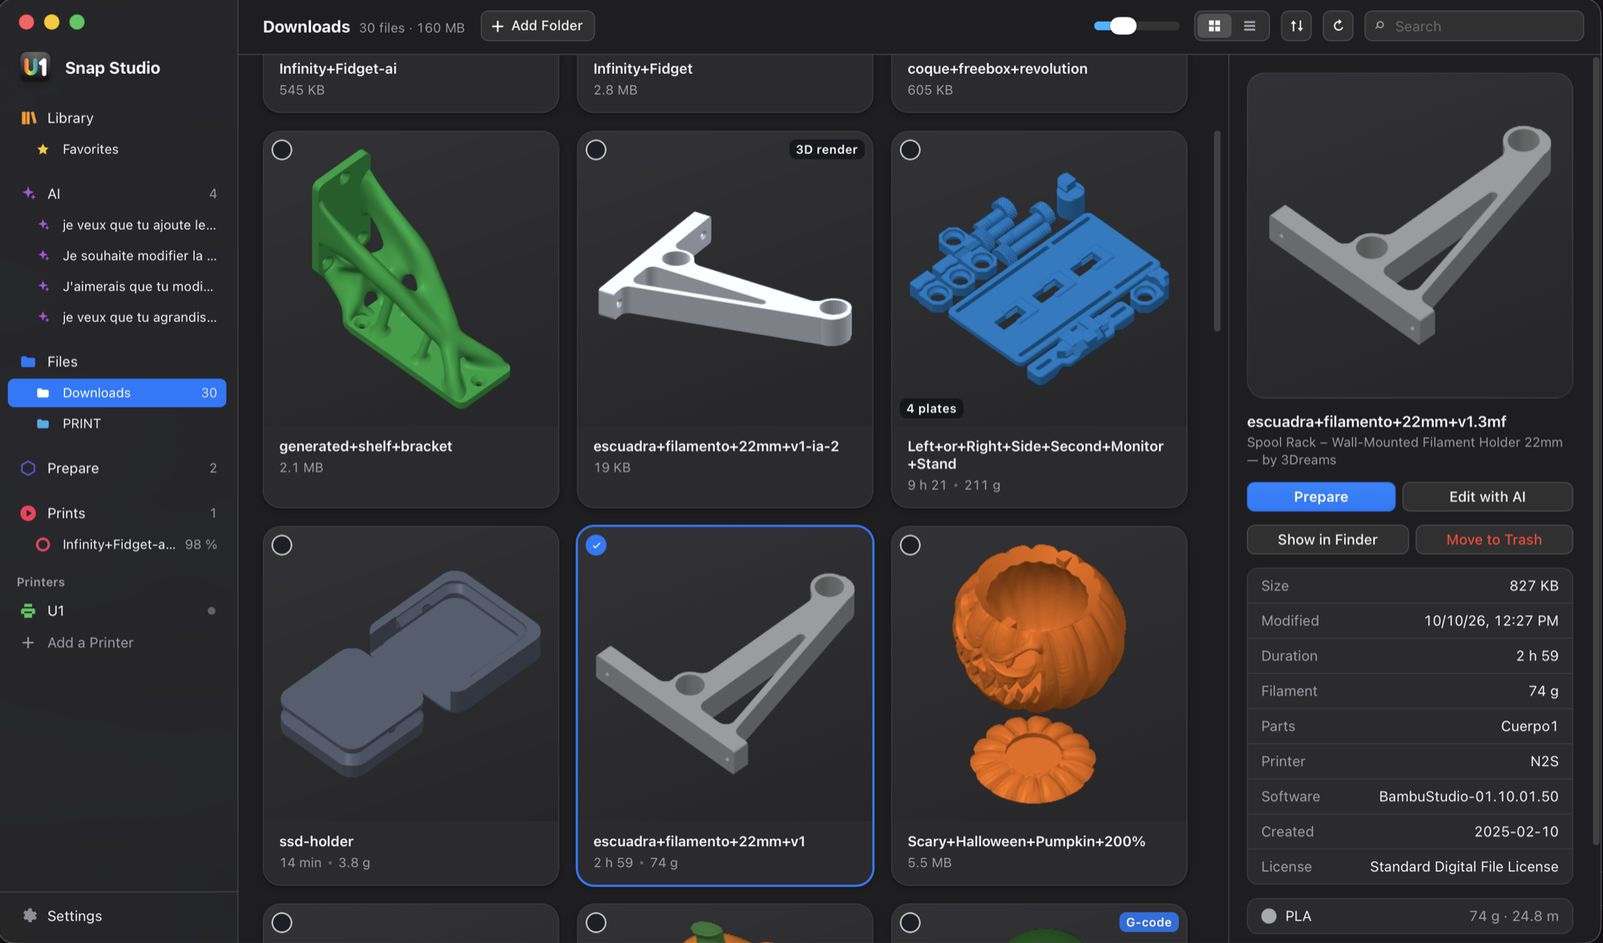
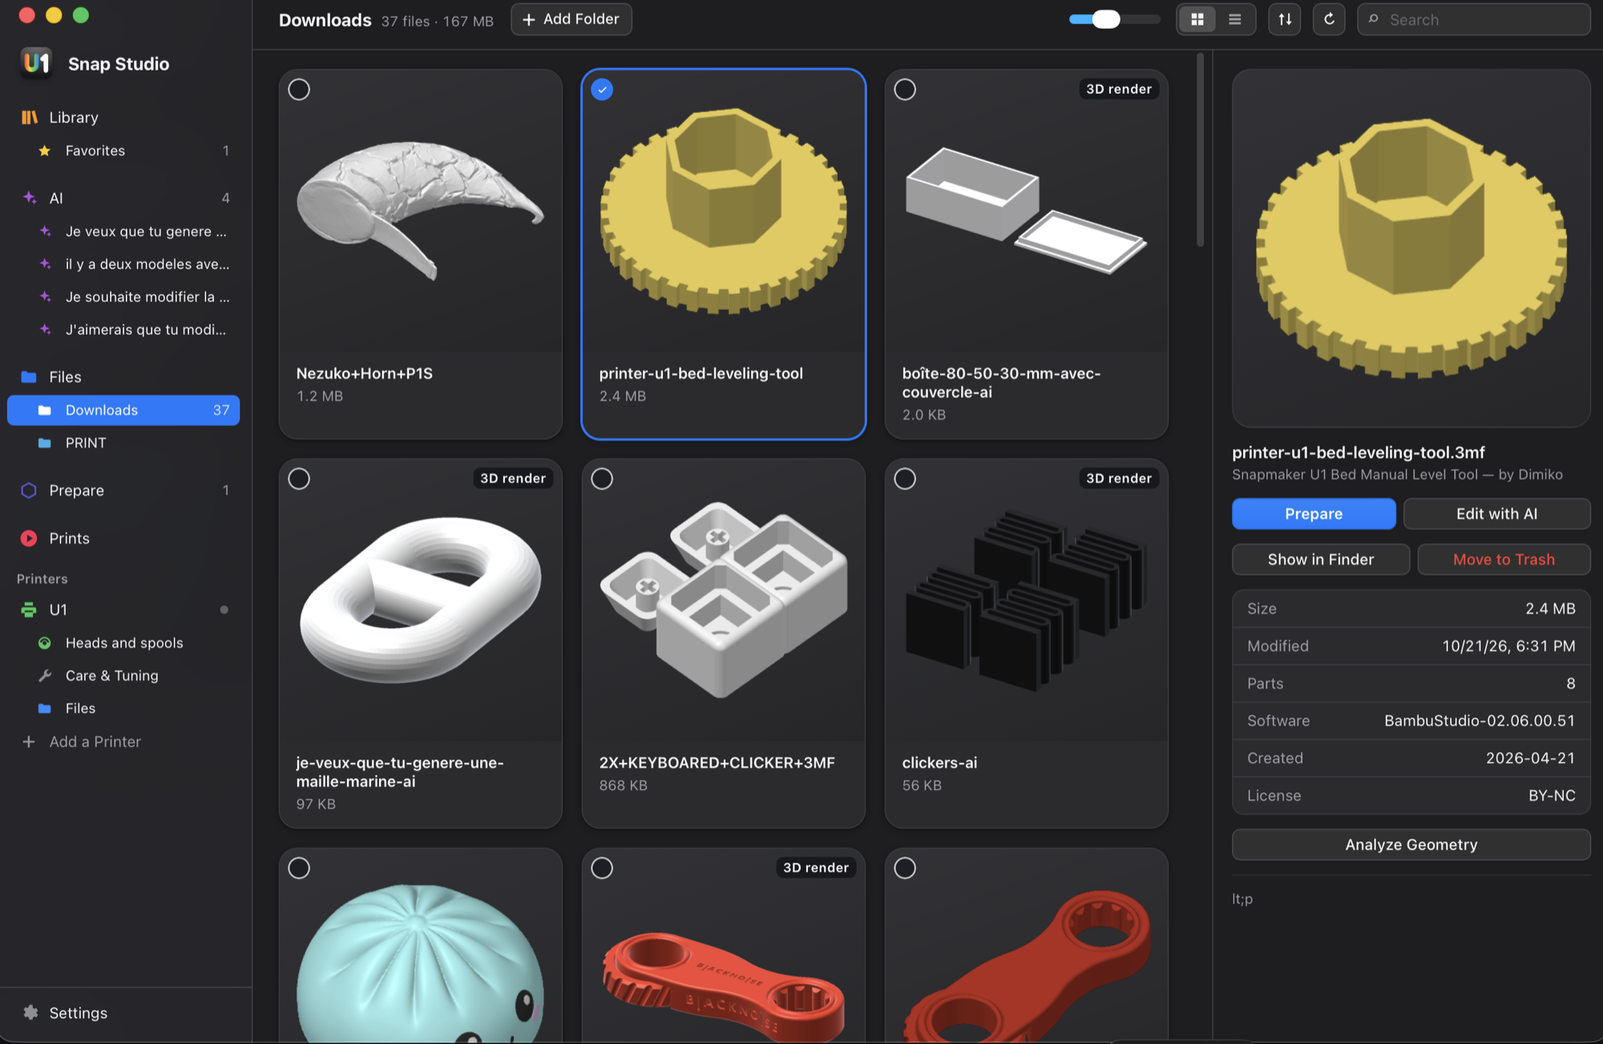
docs: new screenshots for the README and the site (#33)
- Replaced: Library, AI conversation, Files, Prepare (sliders, floating
  list) and Care & Tuning (was Maintenance).
- New: a printer's Files, and Settings › Display (themes), in their README
  sections (EN/FR) and as two more slides on the site (11 now).
- Site: WebP at 1400 px and 320 px thumbnails, image sizes and captions
  (EN/FR) updated; the Maintenance caption becomes Care & Tuning.
- The AI conversation's local paths are replaced by ~/.config/… (no user
  name in a public image).

diff --git a/site/index.html b/site/index.html
@@ -36,7 +36,7 @@
         <a class="btn ghost" href="https://github.com/kameka22/snap-studio" data-i18n="hero.source">View on GitHub</a>
       </div>
       <p id="hero-dl-note" class="note"></p>
-      <img class="hero-shot" src="assets/files.webp" alt="Snap Studio — your 3MF files at a glance" data-i18n-alt="shots.files_alt" width="1400" height="824">
+      <img class="hero-shot" src="assets/files.webp" alt="Snap Studio — your 3MF files at a glance" data-i18n-alt="shots.files_alt" width="1400" height="912">
     </section>
 
     <section id="features" class="features">
@@ -80,56 +80,68 @@
       <section class="gallery" id="gallery" aria-roledescription="carousel" data-i18n-roledesc="gal.role" aria-label="Snap Studio screenshots" data-i18n-aria="gal.label" tabindex="0">
         <div class="g-stage">
           <div class="g-track" aria-live="polite">
-          <figure class="g-slide is-active" role="group" aria-roledescription="slide" data-i18n-roledesc="gal.slide_role" aria-label="1 / 9" data-index="0">
+          <figure class="g-slide is-active" role="group" aria-roledescription="slide" data-i18n-roledesc="gal.slide_role" aria-label="1 / 11" data-index="0">
             <button type="button" class="g-open" data-open="0" aria-label="Open fullscreen: Files: thumbnails of your 3MF files, duration, filament and plates" data-cap="shots.files" tabindex="0">
-              <img src="assets/files.webp" alt="Snap Studio — your 3MF files at a glance" data-i18n-alt="shots.files_alt" width="1400" height="824">
+              <img src="assets/files.webp" alt="Snap Studio — your 3MF files at a glance" data-i18n-alt="shots.files_alt" width="1400" height="912">
             </button>
             <figcaption><span class="g-cap" data-i18n="shots.files">Files: thumbnails of your 3MF files, duration, filament and plates</span></figcaption>
           </figure>
-          <figure class="g-slide" role="group" aria-roledescription="slide" data-i18n-roledesc="gal.slide_role" aria-label="2 / 9" data-index="1" aria-hidden="true">
-            <button type="button" class="g-open" data-open="1" aria-label="Open fullscreen: Prepare: the U1 plate in 3D, as in Orca" data-cap="shots.prepare" tabindex="-1">
-              <img src="assets/prepare.webp" alt="Prepare" data-i18n-alt="shots.prepare_alt" width="1400" height="824">
+          <figure class="g-slide" role="group" aria-roledescription="slide" data-i18n-roledesc="gal.slide_role" aria-label="2 / 11" data-index="1" aria-hidden="true">
+            <button type="button" class="g-open" data-open="1" aria-label="Open fullscreen: Prepare: the U1 plate in 3D, with sliders and objects set aside" data-cap="shots.prepare" tabindex="-1">
+              <img src="assets/prepare.webp" alt="Prepare" data-i18n-alt="shots.prepare_alt" width="1400" height="912">
             </button>
-            <figcaption><span class="g-cap" data-i18n="shots.prepare">Prepare: the U1 plate in 3D, as in Orca</span></figcaption>
+            <figcaption><span class="g-cap" data-i18n="shots.prepare">Prepare: the U1 plate in 3D, with sliders and objects set aside</span></figcaption>
           </figure>
-          <figure class="g-slide" role="group" aria-roledescription="slide" data-i18n-roledesc="gal.slide_role" aria-label="3 / 9" data-index="2" aria-hidden="true">
+          <figure class="g-slide" role="group" aria-roledescription="slide" data-i18n-roledesc="gal.slide_role" aria-label="3 / 11" data-index="2" aria-hidden="true">
             <button type="button" class="g-open" data-open="2" aria-label="Open fullscreen: AI: Claude models a part, with a live 3D preview" data-cap="shots.ai-chat" tabindex="-1">
-              <img src="assets/ai-chat.webp" alt="An AI conversation" data-i18n-alt="shots.ai-chat_alt" width="1400" height="824" loading="lazy">
+              <img src="assets/ai-chat.webp" alt="An AI conversation" data-i18n-alt="shots.ai-chat_alt" width="1400" height="912" loading="lazy">
             </button>
             <figcaption><span class="g-cap" data-i18n="shots.ai-chat">AI: Claude models a part, with a live 3D preview</span></figcaption>
           </figure>
-          <figure class="g-slide" role="group" aria-roledescription="slide" data-i18n-roledesc="gal.slide_role" aria-label="4 / 9" data-index="3" aria-hidden="true">
+          <figure class="g-slide" role="group" aria-roledescription="slide" data-i18n-roledesc="gal.slide_role" aria-label="4 / 11" data-index="3" aria-hidden="true">
             <button type="button" class="g-open" data-open="3" aria-label="Open fullscreen: Printers: live state and the spools in each head" data-cap="shots.printer" tabindex="-1">
               <img src="assets/printer.webp" alt="Printer and its spools" data-i18n-alt="shots.printer_alt" width="1400" height="824" loading="lazy">
             </button>
             <figcaption><span class="g-cap" data-i18n="shots.printer">Printers: live state and the spools in each head</span></figcaption>
           </figure>
-          <figure class="g-slide" role="group" aria-roledescription="slide" data-i18n-roledesc="gal.slide_role" aria-label="5 / 9" data-index="4" aria-hidden="true">
-            <button type="button" class="g-open" data-open="4" aria-label="Open fullscreen: Camera: the printer's camera, live" data-cap="shots.printer-camera" tabindex="-1">
-              <img src="assets/printer-camera.webp" alt="The printer's camera" data-i18n-alt="shots.printer-camera_alt" width="1400" height="824" loading="lazy">
+          <figure class="g-slide" role="group" aria-roledescription="slide" data-i18n-roledesc="gal.slide_role" aria-label="5 / 11" data-index="4" aria-hidden="true">
+            <button type="button" class="g-open" data-open="4" aria-label="Open fullscreen: Camera: the printer&#x27;s camera, live" data-cap="shots.printer-camera" tabindex="-1">
+              <img src="assets/printer-camera.webp" alt="The printer&#x27;s camera" data-i18n-alt="shots.printer-camera_alt" width="1400" height="824" loading="lazy">
             </button>
-            <figcaption><span class="g-cap" data-i18n="shots.printer-camera">Camera: the printer's camera, live</span></figcaption>
+            <figcaption><span class="g-cap" data-i18n="shots.printer-camera">Camera: the printer&#x27;s camera, live</span></figcaption>
           </figure>
-          <figure class="g-slide" role="group" aria-roledescription="slide" data-i18n-roledesc="gal.slide_role" aria-label="6 / 9" data-index="5" aria-hidden="true">
+          <figure class="g-slide" role="group" aria-roledescription="slide" data-i18n-roledesc="gal.slide_role" aria-label="6 / 11" data-index="5" aria-hidden="true">
             <button type="button" class="g-open" data-open="5" aria-label="Open fullscreen: Prints: progress, temperatures, pause and cancel" data-cap="shots.print-job" tabindex="-1">
               <img src="assets/print-job.webp" alt="A print in progress" data-i18n-alt="shots.print-job_alt" width="1400" height="824" loading="lazy">
             </button>
             <figcaption><span class="g-cap" data-i18n="shots.print-job">Prints: progress, temperatures, pause and cancel</span></figcaption>
           </figure>
-          <figure class="g-slide" role="group" aria-roledescription="slide" data-i18n-roledesc="gal.slide_role" aria-label="7 / 9" data-index="6" aria-hidden="true">
-            <button type="button" class="g-open" data-open="6" aria-label="Open fullscreen: Library: MakerWorld, Printables, Thingiverse and Cults3D in tabs" data-cap="shots.library" tabindex="-1">
-              <img src="assets/library.webp" alt="Library" data-i18n-alt="shots.library_alt" width="1400" height="824" loading="lazy">
+          <figure class="g-slide" role="group" aria-roledescription="slide" data-i18n-roledesc="gal.slide_role" aria-label="7 / 11" data-index="6" aria-hidden="true">
+            <button type="button" class="g-open" data-open="6" aria-label="Open fullscreen: A printer&#x27;s files: print files and timelapses, read live" data-cap="shots.printer-files" tabindex="-1">
+              <img src="assets/printer-files.webp" alt="A printer&#x27;s files" data-i18n-alt="shots.printer-files_alt" width="1400" height="912" loading="lazy">
+            </button>
+            <figcaption><span class="g-cap" data-i18n="shots.printer-files">A printer&#x27;s files: print files and timelapses, read live</span></figcaption>
+          </figure>
+          <figure class="g-slide" role="group" aria-roledescription="slide" data-i18n-roledesc="gal.slide_role" aria-label="8 / 11" data-index="7" aria-hidden="true">
+            <button type="button" class="g-open" data-open="7" aria-label="Open fullscreen: Library: MakerWorld, Printables, Thingiverse and Cults3D in tabs" data-cap="shots.library" tabindex="-1">
+              <img src="assets/library.webp" alt="Library" data-i18n-alt="shots.library_alt" width="1400" height="912" loading="lazy">
             </button>
             <figcaption><span class="g-cap" data-i18n="shots.library">Library: MakerWorld, Printables, Thingiverse and Cults3D in tabs</span></figcaption>
           </figure>
-          <figure class="g-slide" role="group" aria-roledescription="slide" data-i18n-roledesc="gal.slide_role" aria-label="8 / 9" data-index="7" aria-hidden="true">
-            <button type="button" class="g-open" data-open="7" aria-label="Open fullscreen: Maintenance: usage, heads and tasks sorted by urgency" data-cap="shots.maintenance" tabindex="-1">
-              <img src="assets/maintenance.webp" alt="The maintenance view" data-i18n-alt="shots.maintenance_alt" width="1400" height="913" loading="lazy">
+          <figure class="g-slide" role="group" aria-roledescription="slide" data-i18n-roledesc="gal.slide_role" aria-label="9 / 11" data-index="8" aria-hidden="true">
+            <button type="button" class="g-open" data-open="8" aria-label="Open fullscreen: Care &amp; Tuning: maintenance tasks, the heads&#x27; counters, the bed&#x27;s leveling" data-cap="shots.maintenance" tabindex="-1">
+              <img src="assets/maintenance.webp" alt="Care &amp; Tuning" data-i18n-alt="shots.maintenance_alt" width="1400" height="912" loading="lazy">
             </button>
-            <figcaption><span class="g-cap" data-i18n="shots.maintenance">Maintenance: usage, heads and tasks sorted by urgency</span></figcaption>
+            <figcaption><span class="g-cap" data-i18n="shots.maintenance">Care &amp; Tuning: maintenance tasks, the heads&#x27; counters, the bed&#x27;s leveling</span></figcaption>
           </figure>
-          <figure class="g-slide" role="group" aria-roledescription="slide" data-i18n-roledesc="gal.slide_role" aria-label="9 / 9" data-index="8" aria-hidden="true">
-            <button type="button" class="g-open" data-open="8" aria-label="Open fullscreen: Slicing: plate, quality, heads and spools read from the printer" data-cap="shots.slicing" tabindex="-1">
+          <figure class="g-slide" role="group" aria-roledescription="slide" data-i18n-roledesc="gal.slide_role" aria-label="10 / 11" data-index="9" aria-hidden="true">
+            <button type="button" class="g-open" data-open="9" aria-label="Open fullscreen: Display: light or dark, ten themes and the accent color" data-cap="shots.display" tabindex="-1">
+              <img src="assets/display.webp" alt="Settings › Display" data-i18n-alt="shots.display_alt" width="1400" height="912" loading="lazy">
+            </button>
+            <figcaption><span class="g-cap" data-i18n="shots.display">Display: light or dark, ten themes and the accent color</span></figcaption>
+          </figure>
+          <figure class="g-slide" role="group" aria-roledescription="slide" data-i18n-roledesc="gal.slide_role" aria-label="11 / 11" data-index="10" aria-hidden="true">
+            <button type="button" class="g-open" data-open="10" aria-label="Open fullscreen: Slicing: plate, quality, heads and spools read from the printer" data-cap="shots.slicing" tabindex="-1">
               <img src="assets/slicing.webp" alt="The slice sheet" data-i18n-alt="shots.slicing_alt" width="1200" height="1105" loading="lazy">
             </button>
             <figcaption><span class="g-cap" data-i18n="shots.slicing">Slicing: plate, quality, heads and spools read from the printer</span></figcaption>
@@ -139,19 +151,21 @@
           <button type="button" class="g-nav g-next" aria-label="Next screenshot" data-i18n-aria="gal.next"><svg viewBox="0 0 24 24" aria-hidden="true" focusable="false"><path d="M9 5l7 7-7 7"/></svg></button>
         </div>
         <div class="g-bar">
-          <span class="g-count" aria-hidden="true"><b id="g-cur">1</b> / 9</span>
+          <span class="g-count" aria-hidden="true"><b id="g-cur">1</b> / 11</span>
           <button type="button" class="g-play" id="g-play" aria-pressed="false" aria-label="Pause the slideshow" data-i18n-aria="gal.pause"><svg class="i-pause" viewBox="0 0 24 24" aria-hidden="true" focusable="false"><path d="M8 5v14M16 5v14"/></svg><svg class="i-play" viewBox="0 0 24 24" aria-hidden="true" focusable="false"><path d="M8 5l11 7-11 7z"/></svg></button>
         </div>
         <div class="g-thumbs" id="g-thumbs">
-        <button type="button" class="g-thumb is-active" data-go="0" aria-label="Files: thumbnails of your 3MF files, duration, filament and plates" data-cap="shots.files" aria-current="true"><img src="assets/thumbs/files.webp" alt="" width="160" height="94" loading="lazy"></button>
-        <button type="button" class="g-thumb" data-go="1" aria-label="Prepare: the U1 plate in 3D, as in Orca" data-cap="shots.prepare"><img src="assets/thumbs/prepare.webp" alt="" width="160" height="94" loading="lazy"></button>
-        <button type="button" class="g-thumb" data-go="2" aria-label="AI: Claude models a part, with a live 3D preview" data-cap="shots.ai-chat"><img src="assets/thumbs/ai-chat.webp" alt="" width="160" height="94" loading="lazy"></button>
+        <button type="button" class="g-thumb is-active" data-go="0" aria-label="Files: thumbnails of your 3MF files, duration, filament and plates" data-cap="shots.files" aria-current="true"><img src="assets/thumbs/files.webp" alt="" width="160" height="104" loading="lazy"></button>
+        <button type="button" class="g-thumb" data-go="1" aria-label="Prepare: the U1 plate in 3D, with sliders and objects set aside" data-cap="shots.prepare"><img src="assets/thumbs/prepare.webp" alt="" width="160" height="104" loading="lazy"></button>
+        <button type="button" class="g-thumb" data-go="2" aria-label="AI: Claude models a part, with a live 3D preview" data-cap="shots.ai-chat"><img src="assets/thumbs/ai-chat.webp" alt="" width="160" height="104" loading="lazy"></button>
         <button type="button" class="g-thumb" data-go="3" aria-label="Printers: live state and the spools in each head" data-cap="shots.printer"><img src="assets/thumbs/printer.webp" alt="" width="160" height="94" loading="lazy"></button>
-        <button type="button" class="g-thumb" data-go="4" aria-label="Camera: the printer's camera, live" data-cap="shots.printer-camera"><img src="assets/thumbs/printer-camera.webp" alt="" width="160" height="94" loading="lazy"></button>
+        <button type="button" class="g-thumb" data-go="4" aria-label="Camera: the printer&#x27;s camera, live" data-cap="shots.printer-camera"><img src="assets/thumbs/printer-camera.webp" alt="" width="160" height="94" loading="lazy"></button>
         <button type="button" class="g-thumb" data-go="5" aria-label="Prints: progress, temperatures, pause and cancel" data-cap="shots.print-job"><img src="assets/thumbs/print-job.webp" alt="" width="160" height="94" loading="lazy"></button>
-        <button type="button" class="g-thumb" data-go="6" aria-label="Library: MakerWorld, Printables, Thingiverse and Cults3D in tabs" data-cap="shots.library"><img src="assets/thumbs/library.webp" alt="" width="160" height="94" loading="lazy"></button>
-        <button type="button" class="g-thumb" data-go="7" aria-label="Maintenance: usage, heads and tasks sorted by urgency" data-cap="shots.maintenance"><img src="assets/thumbs/maintenance.webp" alt="" width="160" height="94" loading="lazy"></button>
-        <button type="button" class="g-thumb" data-go="8" aria-label="Slicing: plate, quality, heads and spools read from the printer" data-cap="shots.slicing"><img src="assets/thumbs/slicing.webp" alt="" width="160" height="94" loading="lazy"></button>
+        <button type="button" class="g-thumb" data-go="6" aria-label="A printer&#x27;s files: print files and timelapses, read live" data-cap="shots.printer-files"><img src="assets/thumbs/printer-files.webp" alt="" width="160" height="104" loading="lazy"></button>
+        <button type="button" class="g-thumb" data-go="7" aria-label="Library: MakerWorld, Printables, Thingiverse and Cults3D in tabs" data-cap="shots.library"><img src="assets/thumbs/library.webp" alt="" width="160" height="104" loading="lazy"></button>
+        <button type="button" class="g-thumb" data-go="8" aria-label="Care &amp; Tuning: maintenance tasks, the heads&#x27; counters, the bed&#x27;s leveling" data-cap="shots.maintenance"><img src="assets/thumbs/maintenance.webp" alt="" width="160" height="104" loading="lazy"></button>
+        <button type="button" class="g-thumb" data-go="9" aria-label="Display: light or dark, ten themes and the accent color" data-cap="shots.display"><img src="assets/thumbs/display.webp" alt="" width="160" height="104" loading="lazy"></button>
+        <button type="button" class="g-thumb" data-go="10" aria-label="Slicing: plate, quality, heads and spools read from the printer" data-cap="shots.slicing"><img src="assets/thumbs/slicing.webp" alt="" width="160" height="94" loading="lazy"></button>
           <span class="g-ind" aria-hidden="true"></span>
         </div>
       </section>

diff --git a/site/i18n.js b/site/i18n.js
@@ -38,7 +38,7 @@ const STRINGS = {
     "gal.close": "Close",
     "shots.files": "Files: thumbnails of your 3MF files, duration, filament and plates",
     "shots.files_alt": "Snap Studio — your 3MF files at a glance",
-    "shots.prepare": "Prepare: the U1 plate in 3D, as in Orca",
+    "shots.prepare": "Prepare: the U1 plate in 3D, with sliders and objects set aside",
     "shots.prepare_alt": "Prepare",
     "shots.ai-chat": "AI: Claude models a part, with a live 3D preview",
     "shots.ai-chat_alt": "An AI conversation",
@@ -50,10 +50,14 @@ const STRINGS = {
     "shots.print-job_alt": "A print in progress",
     "shots.library": "Library: MakerWorld, Printables, Thingiverse and Cults3D in tabs",
     "shots.library_alt": "Library",
-    "shots.maintenance": "Maintenance: usage, heads and tasks sorted by urgency",
-    "shots.maintenance_alt": "The maintenance view",
+    "shots.maintenance": "Care & Tuning: maintenance tasks, the heads' counters, the bed's leveling",
+    "shots.maintenance_alt": "Care & Tuning",
     "shots.slicing": "Slicing: plate, quality, heads and spools read from the printer",
     "shots.slicing_alt": "The slice sheet",
+    "shots.printer-files": "A printer's files: print files and timelapses, read live",
+    "shots.printer-files_alt": "A printer's files",
+    "shots.display": "Display: light or dark, ten themes and the accent color",
+    "shots.display_alt": "Settings › Display",
     "dl.title": "Download",
     "dl.button": "Download",
     "dl.button_os": "Download for {os}",
@@ -115,7 +119,7 @@ const STRINGS = {
     "gal.close": "Fermer",
     "shots.files": "Fichiers : miniatures de vos 3MF, durée, filament et plateaux",
     "shots.files_alt": "Snap Studio — vos fichiers 3MF en un coup d'œil",
-    "shots.prepare": "Préparer : le plateau de la U1 en 3D, comme dans Orca",
+    "shots.prepare": "Préparer : le plateau de la U1 en 3D, avec curseurs et objets mis de côté",
     "shots.prepare_alt": "Préparer",
     "shots.ai-chat": "IA : Claude modélise une pièce, avec un aperçu 3D en direct",
     "shots.ai-chat_alt": "Une conversation IA",
@@ -127,10 +131,14 @@ const STRINGS = {
     "shots.print-job_alt": "Une impression en cours",
     "shots.library": "Bibliothèque : MakerWorld, Printables, Thingiverse et Cults3D en onglets",
     "shots.library_alt": "Bibliothèque",
-    "shots.maintenance": "Maintenance : usage, têtes et tâches triées par urgence",
-    "shots.maintenance_alt": "La vue maintenance",
+    "shots.maintenance": "Entretien et réglages : entretiens, compteurs des têtes, nivellement du plateau",
+    "shots.maintenance_alt": "Entretien et réglages",
     "shots.slicing": "Découpe : plateau, qualité, têtes et bobines lues sur l'imprimante",
     "shots.slicing_alt": "La fenêtre de découpe",
+    "shots.printer-files": "Fichiers de l'imprimante : fichiers d'impression et timelapses, lus en direct",
+    "shots.printer-files_alt": "Les fichiers d'une imprimante",
+    "shots.display": "Affichage : clair ou sombre, dix thèmes et la couleur d'accent",
+    "shots.display_alt": "Réglages › Affichage",
     "dl.title": "Télécharger",
     "dl.button": "Télécharger",
     "dl.button_os": "Télécharger pour {os}",

diff --git a/README.fr.md b/README.fr.md
@@ -139,7 +139,7 @@ Les contacts suivent le chiffre de Snapmaker ; les autres intervalles sont
 des valeurs prudentes, Snapmaker n'en donne pas. Sur une autre imprimante
 Klipper, la vue garde l'utilisation et les entretiens à l'heure.
 
-<img src="docs/screenshots/maintenance.png" alt="La vue maintenance" />
+<img src="docs/screenshots/maintenance.png" alt="Entretien et réglages : entretiens et compteurs des têtes" />
 
 **Nivellement** : le maillage du plateau, lu sur l'imprimante, gardé dans
 le temps.
@@ -182,6 +182,8 @@ Sous chaque imprimante, **Fichiers** montre ce qui y est stocké, lu en direct :
   téléphone sur le même Wi-Fi (un lien local qui s'arrête après 15 minutes ou
   à la fermeture de la fenêtre), le fichier dans le presse-papiers, ou
   Enregistrer sous.
+
+<img src="docs/screenshots/printer-files.png" alt="Les fichiers d'une imprimante, en grille de vignettes" />
 
 ### ✂ Découpe
 
@@ -232,6 +234,8 @@ bobine sur T0) et macOS (une mise en page façon Tahoe, en verre) ; la
 couleur d'accent : celle du thème, du système, une couleur prédéfinie ou la
 vôtre ; et des couleurs adaptées au daltonisme, avec tous les thèmes (les
 états ne se distinguent jamais par le seul rouge / vert).
+
+<img src="docs/screenshots/display.png" alt="Réglages › Affichage : apparence et les dix thèmes" />
 
 ## Télécharger
 

diff --git a/README.md b/README.md
@@ -129,7 +129,7 @@ Contacts follow Snapmaker's figure; the other intervals are prudent
 defaults, Snapmaker gives none. On another Klipper printer, the view keeps
 usage and the hour-based tasks.
 
-<img src="docs/screenshots/maintenance.png" alt="The maintenance view" />
+<img src="docs/screenshots/maintenance.png" alt="Care &amp; Tuning: maintenance tasks and the heads' counters" />
 
 **Bed Leveling**: the bed's mesh, read from the printer, kept over time.
 
@@ -167,6 +167,8 @@ Under each printer, **Files** shows what is stored on it, read live:
   Mail…), a QR code to download it on your phone on the same Wi-Fi (a local
   link that stops after 15 minutes or when the sheet closes), the file on the
   clipboard, or Save As.
+
+<img src="docs/screenshots/printer-files.png" alt="A printer's files, as a grid of thumbnails" />
 
 ### ✂ Slicing
 
@@ -212,6 +214,8 @@ Solarized, Filament (the app takes the color of the spool on T0) and macOS
 (a Tahoe-style layout in glass); the accent color: the theme's, the
 system's, a preset or your own; and color-blind safe colors over any theme
 (states never told apart by red and green alone).
+
+<img src="docs/screenshots/display.png" alt="Settings › Display: appearance and the ten themes" />
 
 ## Download
 
